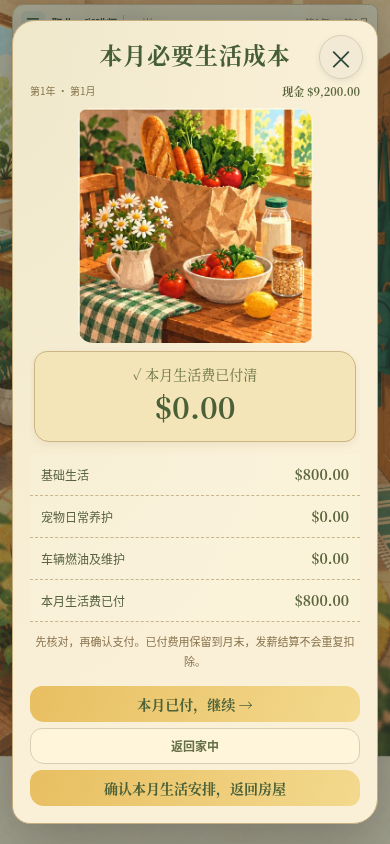
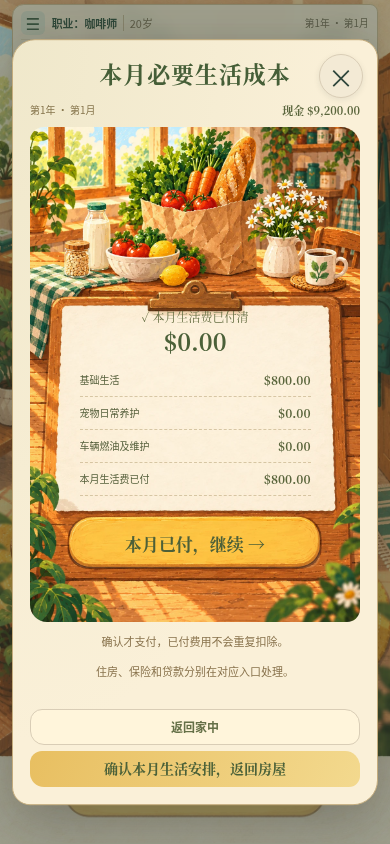
Embed the live living-expense payment button into illustrated bill

diff --git a/sw.js b/sw.js
@@ -1,5 +1,5 @@
-const CACHE='wealth-life-v28.3-household-paper1';
-const ASSETS=["./household-paper.js?v=28.3-household-paper1","./household-paper.css?v=28.3-household-paper1","./assets/career/household-scenes.webp","./social-records.js?v=28.3-social-per-person1","./social-time.js?v=28.3-social-price1","./social-pages-art.js?v=28.3-social-price1","./social-pages-art.css?v=28.3-social1","./assets/career/social-scenes.webp","./assets/career/life-funding.webp","./life-pages-art.js?v=28.3-life-pages1","./life-pages-art.css?v=28.3-life-pages1","./assets/career/life-activities.webp","./insurance-rules.js?v=28.3-insurance1","./insurance-hub.js?v=28.3-insurance1","./insurance-hub.css?v=28.3-insurance1","./life-hub-art.js?v=28.3-life-hub1","./life-hub-art.css?v=28.3-life-hub1","./assets/career/life-arrangements.webp","./recovery-activity-guards.js?v=28.3-recovery-guard1","./pet-social-contacts.js?v=28.3-pet-simple1","./assets/career/pet-gecko-cleaning.webp","./assets/career/pet-spider-cleaning.webp","./assets/career/pet-tortoise-cleaning.webp","./assets/career/pet-chameleon-cleaning.webp","./assets/career/pet-cat-professional.webp","./assets/career/pet-cat-cleaning-scenes.webp","./pet-art-map.js?v=28.3-pet-simple1","./pet-art-map.css?v=28.3-pet-map1","./pet-page-art.js?v=28.3-pet-map1","./assets/career/pet-policy.webp","./assets/career/pet-crocodile-cleaning.webp","./assets/career/pet-crocodile-adoption.webp","./assets/career/pet-cat-adoption.webp","./pet-funds-shortage.js?v=28.3-pet-funds1","./pet-funds-shortage.css?v=28.3-pet-funds1","./pet-adoption-success.js?v=28.3-pet-map1","./pet-adoption-success.css?v=28.3-pet-success1","./assets/career/pet-adoption-success.webp","./pet-owned-hub.js?v=28.3-pet-map1","./pet-owned-hub.css?v=28.3-pet-owned1","./assets/career/pet-owned-sheet.webp","./assets/career/pet-cleaning-scenes.webp","./pet-daily-care.js?v=28.3-pet-simple1","./pet-daily-care.css?v=28.3-pet-clean-art1","./pet-adoption-art.js?v=28.3-pet-map1","./pet-adoption-art.css?v=28.3-pet-form1","./assets/career/pet-corgi-adoption.webp","./pet-selection-art.js?v=28.3-pet-entry1","./pet-selection-art.css?v=28.3-pet-center1","./assets/career/pet-selection.webp","./pet-hub-art.js?v=28.3-pet-care-label1","./pet-hub-art.css?v=28.3-pet-hub1","./assets/career/pet-hub.webp","./assets/career/home-mobile.webp","./room-arrangements.js?v=28.3-pet-map1","./map-card-data.js?v=28.3-pet-social-limit1", "./map-card-rules.js?v=28.3-mapcards1", "./map-card-system.js?v=28.3-pet-simple1", "./map-card.css?v=28.3-mapcards1", "./assets/career/map-pet-unwell.webp", "./assets/career/map-pet-injury.webp", "./assets/career/map-pet-companion.webp", "./assets/career/map-pet-social.webp", "./assets/career/map-pet-mishap.webp", "./assets/career/map-investment-studio.webp", "./assets/career/map-investment-bun-shop.webp", "./assets/career/map-investment-laundry.webp"] .concat(["./cafe-rules.js?v=28.3-manager1","./cafe-system.js?v=28.3-manager1","./career-entry.js?v=28.3-mobile-room1","./career-entry.css?v=28.3-entry2","./assets/career/shift-promotion-pending.webp","./assets/career/shift-promotion-preview.webp","./assets/career/coffee-course.webp","./pet-adoption.js?v=28.3-pet-success1","./candidate-art.js?v=28.3-candidate1","./assets/career/barista-portrait.webp","./assets/career/pet-time-shortage.webp","./assets/career/pet-funds-shortage.webp","./assets/career/pet-crocodile-care.webp","./assets/career/bank-application.webp","./assets/career/bank-payment.webp","./housing-art.js?v=28.3-housing-check1","./assets/career/housing-select.webp","./assets/career/housing-reserve.webp","./assets/career/living-cost.webp","./return-art.js?v=28.3-return1","./assets/career/insurance.webp","./assets/career/return-energy.webp","./assets/career/return-stress.webp","./assets/career/payday.webp","./health-art.js?v=28.3-health1","./assets/career/rest-arrange.webp","./assets/career/rest-complete.webp","./assets/career/hospital-recovery.webp","./assets/career/month-recovery.webp","./education-art.js?v=28.3-education1","./assets/career/degrees.webp","./assets/career/associate-preview.webp","./learning-art.js?v=28.3-learning1","./assets/career/learning.webp","./assets/career/management-course.webp","./assets/career/service-course.webp","./hobby-art.js?v=28.3-room2","./assets/career/hobbies.webp","./home-scene.js?v=28.3-room-unified1","./home-scene.css?v=28.3-room-unified1","./assets/career/home.webp","./release-info.js?v=28.3-internal1","./financial-crisis.js?v=28.3-internal1","./four-state.js?v=28.3-internal1","./rest-state.js?v=28.3-rest-check1","./coffee-salary.js?v=28.3-internal1","./housing-lease.js?v=28.3-housing-check1","./pet-care.js?v=28.3-pet-map1","./necessary-bills.js?v=28.3-internal1","./recovery-ui.js?v=28.3-internal1","./medical-insurance.js?v=28.3-internal1","./recovery-rules.js?v=28.3-internal1","./time-ledger.js?v=28.3-internal1","./time-flow.js?v=28.3-home-end1","./assets/career/town.webp","./coffee-career.js?v=28.3-mapcards1", "./assets/career/barista-staff.webp", "./assets/career/barista-busy.webp", "./assets/career/barista-cut.webp", "./assets/career/barista-tip.webp", "./assets/career/barista-departure.webp", "./assets/career/shift-training.webp", "./assets/career/shift-schedule.webp", "./assets/career/shift-schedule-success.webp", "./assets/career/shift-schedule-failure.webp", "./assets/career/shift-complaint.webp", "./assets/career/shift-complaint-success.webp", "./assets/career/shift-complaint-failure.webp", "./assets/career/shift-acting.webp", "./assets/career/shift-acting-success.webp", "./assets/career/shift-acting-failure.webp", "./assets/career/shift-praise.webp", "./assets/career/intro.webp"] .concat(["./shift-lead.js?v=28.3-internal1","./shift-lead.css?v=28.3-internal1","./paper.css?v=28.3-internal1",'./coffee.js?v=28.3-internal1','./town.js?v=28.3-internal1','./','./index.html','./core.js','./flow.js?v=28.3-internal1','./journey.js?v=28.3-internal1','./batch.js?v=28.3-mapcards1','./revision.js?v=28.3-social-price1','./annual.js?v=28.3-internal1','./core.js?v=28.3-mapcards1','./presentation.js?v=28.3-candidate1','./presentation.css?v=28.3-internal1','./city.svg','./manifest.webmanifest','./icons/icon-192.png','./icons/icon-512.png']));
+const CACHE='wealth-life-v28.3-living-embedded1';
+const ASSETS=["./assets/career/living-bill-scene.webp","./household-paper.js?v=28.3-living-embedded1","./household-paper.css?v=28.3-living-embedded1","./assets/career/household-scenes.webp","./social-records.js?v=28.3-social-per-person1","./social-time.js?v=28.3-social-price1","./social-pages-art.js?v=28.3-social-price1","./social-pages-art.css?v=28.3-social1","./assets/career/social-scenes.webp","./assets/career/life-funding.webp","./life-pages-art.js?v=28.3-life-pages1","./life-pages-art.css?v=28.3-life-pages1","./assets/career/life-activities.webp","./insurance-rules.js?v=28.3-insurance1","./insurance-hub.js?v=28.3-insurance1","./insurance-hub.css?v=28.3-insurance1","./life-hub-art.js?v=28.3-life-hub1","./life-hub-art.css?v=28.3-life-hub1","./assets/career/life-arrangements.webp","./recovery-activity-guards.js?v=28.3-recovery-guard1","./pet-social-contacts.js?v=28.3-pet-simple1","./assets/career/pet-gecko-cleaning.webp","./assets/career/pet-spider-cleaning.webp","./assets/career/pet-tortoise-cleaning.webp","./assets/career/pet-chameleon-cleaning.webp","./assets/career/pet-cat-professional.webp","./assets/career/pet-cat-cleaning-scenes.webp","./pet-art-map.js?v=28.3-pet-simple1","./pet-art-map.css?v=28.3-pet-map1","./pet-page-art.js?v=28.3-pet-map1","./assets/career/pet-policy.webp","./assets/career/pet-crocodile-cleaning.webp","./assets/career/pet-crocodile-adoption.webp","./assets/career/pet-cat-adoption.webp","./pet-funds-shortage.js?v=28.3-pet-funds1","./pet-funds-shortage.css?v=28.3-pet-funds1","./pet-adoption-success.js?v=28.3-pet-map1","./pet-adoption-success.css?v=28.3-pet-success1","./assets/career/pet-adoption-success.webp","./pet-owned-hub.js?v=28.3-pet-map1","./pet-owned-hub.css?v=28.3-pet-owned1","./assets/career/pet-owned-sheet.webp","./assets/career/pet-cleaning-scenes.webp","./pet-daily-care.js?v=28.3-pet-simple1","./pet-daily-care.css?v=28.3-pet-clean-art1","./pet-adoption-art.js?v=28.3-pet-map1","./pet-adoption-art.css?v=28.3-pet-form1","./assets/career/pet-corgi-adoption.webp","./pet-selection-art.js?v=28.3-pet-entry1","./pet-selection-art.css?v=28.3-pet-center1","./assets/career/pet-selection.webp","./pet-hub-art.js?v=28.3-pet-care-label1","./pet-hub-art.css?v=28.3-pet-hub1","./assets/career/pet-hub.webp","./assets/career/home-mobile.webp","./room-arrangements.js?v=28.3-pet-map1","./map-card-data.js?v=28.3-pet-social-limit1", "./map-card-rules.js?v=28.3-mapcards1", "./map-card-system.js?v=28.3-pet-simple1", "./map-card.css?v=28.3-mapcards1", "./assets/career/map-pet-unwell.webp", "./assets/career/map-pet-injury.webp", "./assets/career/map-pet-companion.webp", "./assets/career/map-pet-social.webp", "./assets/career/map-pet-mishap.webp", "./assets/career/map-investment-studio.webp", "./assets/career/map-investment-bun-shop.webp", "./assets/career/map-investment-laundry.webp"] .concat(["./cafe-rules.js?v=28.3-manager1","./cafe-system.js?v=28.3-manager1","./career-entry.js?v=28.3-mobile-room1","./career-entry.css?v=28.3-entry2","./assets/career/shift-promotion-pending.webp","./assets/career/shift-promotion-preview.webp","./assets/career/coffee-course.webp","./pet-adoption.js?v=28.3-pet-success1","./candidate-art.js?v=28.3-candidate1","./assets/career/barista-portrait.webp","./assets/career/pet-time-shortage.webp","./assets/career/pet-funds-shortage.webp","./assets/career/pet-crocodile-care.webp","./assets/career/bank-application.webp","./assets/career/bank-payment.webp","./housing-art.js?v=28.3-housing-check1","./assets/career/housing-select.webp","./assets/career/housing-reserve.webp","./assets/career/living-cost.webp","./return-art.js?v=28.3-return1","./assets/career/insurance.webp","./assets/career/return-energy.webp","./assets/career/return-stress.webp","./assets/career/payday.webp","./health-art.js?v=28.3-health1","./assets/career/rest-arrange.webp","./assets/career/rest-complete.webp","./assets/career/hospital-recovery.webp","./assets/career/month-recovery.webp","./education-art.js?v=28.3-education1","./assets/career/degrees.webp","./assets/career/associate-preview.webp","./learning-art.js?v=28.3-learning1","./assets/career/learning.webp","./assets/career/management-course.webp","./assets/career/service-course.webp","./hobby-art.js?v=28.3-room2","./assets/career/hobbies.webp","./home-scene.js?v=28.3-room-unified1","./home-scene.css?v=28.3-room-unified1","./assets/career/home.webp","./release-info.js?v=28.3-internal1","./financial-crisis.js?v=28.3-internal1","./four-state.js?v=28.3-internal1","./rest-state.js?v=28.3-rest-check1","./coffee-salary.js?v=28.3-internal1","./housing-lease.js?v=28.3-housing-check1","./pet-care.js?v=28.3-pet-map1","./necessary-bills.js?v=28.3-internal1","./recovery-ui.js?v=28.3-internal1","./medical-insurance.js?v=28.3-internal1","./recovery-rules.js?v=28.3-internal1","./time-ledger.js?v=28.3-internal1","./time-flow.js?v=28.3-home-end1","./assets/career/town.webp","./coffee-career.js?v=28.3-mapcards1", "./assets/career/barista-staff.webp", "./assets/career/barista-busy.webp", "./assets/career/barista-cut.webp", "./assets/career/barista-tip.webp", "./assets/career/barista-departure.webp", "./assets/career/shift-training.webp", "./assets/career/shift-schedule.webp", "./assets/career/shift-schedule-success.webp", "./assets/career/shift-schedule-failure.webp", "./assets/career/shift-complaint.webp", "./assets/career/shift-complaint-success.webp", "./assets/career/shift-complaint-failure.webp", "./assets/career/shift-acting.webp", "./assets/career/shift-acting-success.webp", "./assets/career/shift-acting-failure.webp", "./assets/career/shift-praise.webp", "./assets/career/intro.webp"] .concat(["./shift-lead.js?v=28.3-internal1","./shift-lead.css?v=28.3-internal1","./paper.css?v=28.3-internal1",'./coffee.js?v=28.3-internal1','./town.js?v=28.3-internal1','./','./index.html','./core.js','./flow.js?v=28.3-internal1','./journey.js?v=28.3-internal1','./batch.js?v=28.3-mapcards1','./revision.js?v=28.3-social-price1','./annual.js?v=28.3-internal1','./core.js?v=28.3-mapcards1','./presentation.js?v=28.3-candidate1','./presentation.css?v=28.3-internal1','./city.svg','./manifest.webmanifest','./icons/icon-192.png','./icons/icon-512.png']));
 self.addEventListener('install',e=>{self.skipWaiting();e.waitUntil(caches.open(CACHE).then(c=>c.addAll(ASSETS)))});
 self.addEventListener('activate',e=>e.waitUntil(Promise.all([caches.keys().then(keys=>Promise.all(keys.filter(k=>k.startsWith('wealth-life-')&&k!==CACHE).map(k=>caches.delete(k)))),self.clients.claim()])));
 // Register the cache lifetime synchronously while the fetch event is active.

diff --git a/household-paper.js b/household-paper.js
@@ -45,9 +45,12 @@
   const result=livingBefore(...args);if($('eventTitle').textContent!=='本月必要生活成本')return result;
   const pay=$('eventData').querySelector('[data-v26="living"]'),fund=$('eventData').querySelector('[data-town="livingFund"]'),b=board('本月必要生活成本');if(!b)return result;
   const due=roundCash(Math.max(0,livingTotal()-(paymentReceipt().living||0)));
-  b.append(art(4));const amount=document.createElement('div');amount.className='household-total';const label=document.createElement('span'),value=document.createElement('strong');label.textContent=due?'本次尚需支付':'✓ 本月生活费已付清';value.textContent=priceText(due);amount.append(label,value);b.append(amount);
-  b.append(row('基础生活',priceText(livingBaseAmount(state))),row('宠物日常养护',priceText(petMonthly())),row('车辆燃油及维护',priceText(state.carRunningCost||0)),row('本月生活费已付',priceText(paymentReceipt().living||0)),note('先核对，再确认支付。已付费用保留到月末，发薪结算不会重复扣除。'),note('住房、保险和贷款分别在对应入口处理。'));
-  if(pay)$('actions').prepend(pay);if(fund)$('actions').insertBefore(fund,pay?.nextSibling||$('actions').firstChild);actions();return result;
+  $('eventTitle').closest('.event').classList.add('living-embedded');
+  const scene=document.createElement('figure');scene.className='living-painted-scene';const image=document.createElement('img');image.src='assets/career/living-bill-scene.webp';image.alt='阳光下的生活食材、手写账单纸和付款木牌';scene.append(image);
+  const ledger=document.createElement('div');ledger.className='living-painted-ledger';const amount=document.createElement('div');amount.className='household-total';const label=document.createElement('span'),value=document.createElement('strong');label.textContent=due?'本次尚需支付':'✓ 本月生活费已付清';value.textContent=priceText(due);amount.append(label,value);ledger.append(amount);
+  ledger.append(row('基础生活',priceText(livingBaseAmount(state))),row('宠物日常养护',priceText(petMonthly())),row('车辆燃油及维护',priceText(state.carRunningCost||0)),row('本月生活费已付',priceText(paymentReceipt().living||0)));scene.append(ledger);
+  if(pay){pay.classList.add('living-embedded-pay');scene.append(pay);}b.append(scene,note('确认才支付，已付费用不会重复扣除。'),note('住房、保险和贷款分别在对应入口处理。'));
+  if(fund)$('actions').prepend(fund);actions();return result;
  };
  function restBoard(title,done=false){
   const b=board(title);if(!b)return;const missing=done?[]:restMissing();
@@ -59,5 +62,5 @@
  function signed(n){return(n>0?'+':'')+n;}
  const restBefore=openExtraRest;openExtraRest=function(...args){const result=restBefore(...args);restBoard('额外休息4小时');return result;};
  const restConfirmBefore=confirmExtraRest;confirmExtraRest=function(...args){const result=restConfirmBefore(...args);if(result===true)restBoard('休息完成',true);return result;};
- const before=showEvent;showEvent=function(...args){document.querySelector('.household-painted')?.classList.remove('household-painted');return before(...args)};
+ const before=showEvent;showEvent=function(...args){document.querySelector('.household-painted')?.classList.remove('household-painted','living-embedded');return before(...args)};
 })();

diff --git a/household-paper.css b/household-paper.css
@@ -14,3 +14,15 @@
 .household-inline{display:block;margin:10px auto!important;min-height:38px!important;background:#f3e7c3!important;border:1px solid #c7b285;border-radius:12px 17px 11px 14px;color:#607046!important;font-family:'Songti SC',serif}
 .household-rest-scene{width:100%;max-width:230px;aspect-ratio:1;margin:0 auto 12px;background:url('assets/career/life-activities.webp') 50% 0/300% 300%;border-radius:13px 18px 12px 16px}
 @media(max-width:350px){.household-option>strong{font-size:14px}.household-option>b{font-size:12px}.household-option>small,.household-option>span{font-size:9px}.household-options{gap:9px 7px}}
+.living-painted-scene{position:relative;margin:0;border-radius:14px 19px 13px 17px;overflow:hidden;isolation:isolate}
+.living-painted-scene>img{display:block;width:100%;height:auto;aspect-ratio:2/3}
+.living-painted-ledger{position:absolute;left:15%;top:33%;width:70%;height:45%;display:flex;flex-direction:column;justify-content:center;color:#56603c}
+.living-painted-ledger .household-total{margin:0 0 6px;padding:0;background:transparent;border:0;box-shadow:none;border-radius:0}
+.living-painted-ledger .household-total span{font-size:12px}.living-painted-ledger .household-total strong{font-size:clamp(21px,6vw,29px);line-height:1.4}
+.living-painted-ledger .life-paper-row{padding:7px 0;gap:5px;font-size:10px;background:transparent;border-color:#b5a27588;flex-wrap:wrap}
+.living-painted-ledger .life-paper-row strong{font-size:12px;overflow-wrap:anywhere}
+#game .household-painted button.living-embedded-pay{position:absolute;left:12%;top:79.5%;width:76%;height:9.5%;min-height:40px!important;display:flex;align-items:center;justify-content:center;margin:0!important;padding:4px 8px!important;border:0!important;border-radius:13px 18px 12px 17px;background:transparent!important;box-shadow:none!important;color:#4d6038!important;font-family:'Songti SC','STSong',serif;font-size:17px;font-weight:700;white-space:normal;line-height:1.4;text-align:center;z-index:1}
+#game .household-painted button.living-embedded-pay:disabled{opacity:.45;cursor:not-allowed}
+#game .household-painted button.living-embedded-pay:focus-visible{outline:3px solid #506b40;outline-offset:-4px}
+#game .household-painted button.living-embedded-pay:not(:disabled):hover{background:#fff2c522!important}
+@media(max-width:350px){.living-painted-ledger .life-paper-row{padding:5px 0;font-size:9px}.living-painted-ledger .life-paper-row strong{font-size:10px}.living-painted-ledger .household-total span{font-size:10px}#game .household-painted button.living-embedded-pay{font-size:15px}}

diff --git a/index.html b/index.html
@@ -619,6 +619,6 @@ window.v245OpenHousing=()=>document.getElementById('housingBtn').click();
 <link rel="stylesheet" href="social-pages-art.css?v=28.3-social1">
 <script src="social-time.js?v=28.3-social-price1"></script>
 <script src="social-pages-art.js?v=28.3-social-price1"></script>
-<link rel="stylesheet" href="household-paper.css?v=28.3-household-paper1">
-<script src="household-paper.js?v=28.3-household-paper1"></script>
+<link rel="stylesheet" href="household-paper.css?v=28.3-living-embedded1">
+<script src="household-paper.js?v=28.3-living-embedded1"></script>
 </body></html>

diff --git a/qa/browser-household-paper.py b/qa/browser-household-paper.py
@@ -22,22 +22,26 @@ try:
   for key in ['family','shared','studio','rent1']:
    page.evaluate('openHousing()');before=snap();page.locator('#eventData [data-housing-preview][data-key="'+key+'"]').click();assert snap()==before;assert page.locator('.household-painted').count()==1
    if key=='shared':shot('housing-payment-painted');layout()
-  # The original button and delegate, now in the footer, remain the sole payment path.
+  # The original button and delegate are embedded into the scene and remain the sole payment path.
   reset();before=snap();page.get_by_role('button',name='基本生活费',exact=True).click();assert snap()==before
-  assert page.locator('#actions [data-v26="living"]').is_visible();shot('living-cost-painted');layout()
-  box=page.locator('#actions [data-v26="living"]').bounding_box();assert box['y']>=0 and box['y']+box['height']<=844
-  page.locator('#actions [data-v26="living"]').click();assert page.evaluate('state.cash')==9200;assert page.evaluate('paymentReceipt().living')==800
-  page.evaluate('openTownLiving()');assert '已付清' in page.locator('.household-total').inner_text();shot('living-paid-painted');before=snap();page.locator('#actions [data-v26="living"]').click();assert snap()==before
-  reset('state.cash=100');page.get_by_role('button',name='基本生活费',exact=True).click();assert page.locator('#actions [data-v26="living"]').is_disabled();assert page.locator('#actions [data-town="livingFund"]').is_visible();shot('living-insufficient-painted')
+  assert page.locator('.living-painted-scene [data-v26="living"]').is_visible();page.wait_for_function('document.querySelector(".living-painted-scene>img")?.naturalWidth>0');shot('living-cost-painted');layout()
+  box=page.locator('.living-painted-scene [data-v26="living"]').bounding_box();assert box['y']>=0 and box['y']+box['height']<=844
+  page.locator('.living-painted-scene [data-v26="living"]').click();assert page.evaluate('state.cash')==9200;assert page.evaluate('paymentReceipt().living')==800
+  page.evaluate('openTownLiving()');assert '已付清' in page.locator('.household-total').inner_text();shot('living-paid-painted');before=snap();page.locator('.living-painted-scene [data-v26="living"]').click();assert snap()==before
+  reset('state.cash=100');page.get_by_role('button',name='基本生活费',exact=True).click();assert page.locator('.living-painted-scene [data-v26="living"]').is_disabled();assert page.locator('#actions [data-town="livingFund"]').is_visible();shot('living-insufficient-painted')
+  # The embedded control remains a clickable real button as the whole illustration scales.
+  for w,h in [(320,568),(390,844),(1280,900)]:
+   page.set_viewport_size({'width':w,'height':h});reset();page.get_by_role('button',name='基本生活费',exact=True).click();pay=page.locator('.living-painted-scene button[data-v26="living"]');pay.scroll_into_view_if_needed();pay.click();assert page.evaluate('state.cash')==9200
+  page.set_viewport_size({'width':390,'height':844})
   # Rest uses the approved illustrated character and keeps its original action guard.
   reset();page.evaluate('roomOpenArrangement("rest")');assert page.locator('.household-rest-scene').count()==1;shot('rest-painted');layout();page.get_by_role('button',name='确认休息4h',exact=True).click();assert page.evaluate('currentCareerTime().restHours')==4;assert page.locator('.household-rest-scene').count()==1;shot('rest-result-painted')
   # Existing policies/pet pages keep their own styling when navigating away.
   reset();page.get_by_role('button',name='保险',exact=True).click();assert page.locator('.household-painted').count()==0
   reset('state.health=10');page.evaluate('openExtraRest()');assert page.locator('.household-painted').count()==0
   assert not errors,errors;ctx.close()
-  ctx=browser.new_context(viewport={'width':390,'height':844});page=ctx.new_page();page.goto(f'http://127.0.0.1:{s.server_port}',wait_until='networkidle');page.evaluate('navigator.serviceWorker.ready');page.reload(wait_until='networkidle');page.wait_for_function('navigator.serviceWorker.controller!==null');assert page.evaluate('caches.keys()')==['wealth-life-v28.3-household-paper1']
+  ctx=browser.new_context(viewport={'width':390,'height':844});page=ctx.new_page();page.goto(f'http://127.0.0.1:{s.server_port}',wait_until='networkidle');page.evaluate('navigator.serviceWorker.ready');page.reload(wait_until='networkidle');page.wait_for_function('navigator.serviceWorker.controller!==null');assert page.evaluate('caches.keys()')==['wealth-life-v28.3-living-embedded1']
   ctx.set_offline(True);page.reload(wait_until='networkidle');page.get_by_role('button',name='查看职业预览',exact=True).click();page.get_by_role('button',name='选择这个人生',exact=True).click();page.evaluate('roomOpenArrangement("life");openHousing()');assert page.locator('.household-option').count()==4
   assert page.evaluate('new Promise((resolve,reject)=>{const i=new Image;i.onload=()=>resolve(i.naturalWidth);i.onerror=reject;i.src="assets/career/household-scenes.webp"})')==1536
-  page.evaluate('openTownLiving()');page.locator('#actions [data-v26="living"]').click();assert page.evaluate('state.cash')==9200
-  ctx.close();browser.close();result={'passed':True,'checks':['four housing scenes and original preview buttons, browsing no mutation','payment/reservation scene styling; 320/390/desktop centered no overflow','original living button moved to visible footer, actual800 payment, paid reopen no duplicate','insufficient cash keeps disabled pay and original funding route','approved rest scene, original4h transaction and result','insurance and critical recovery screens not restyled by household module','real SW offline atlas and living payment'],'pageErrors':errors,'limits':['isolated Chromium, not real phone','housing/rest original branch regressions run separately']};Path('qa/browser-evidence/household-paper.json').write_text(json.dumps(result,ensure_ascii=False,indent=2)+'\n');print(json.dumps(result,ensure_ascii=False,indent=2))
+  page.evaluate('openTownLiving()');page.locator('.living-painted-scene [data-v26="living"]').click();assert page.evaluate('state.cash')==9200
+  ctx.close();browser.close();result={'passed':True,'checks':['four housing scenes and original preview buttons, browsing no mutation','payment/reservation scene styling; 320/390/desktop centered no overflow','original living button embedded in illustration, actual800 payment, paid reopen no duplicate, scaled320/390/desktop button clicks','insufficient cash keeps disabled pay and original funding route','approved rest scene, original4h transaction and result','insurance and critical recovery screens not restyled by household module','real SW offline atlas and living payment'],'pageErrors':errors,'limits':['isolated Chromium, not real phone','housing/rest original branch regressions run separately']};Path('qa/browser-evidence/household-paper.json').write_text(json.dumps(result,ensure_ascii=False,indent=2)+'\n');print(json.dumps(result,ensure_ascii=False,indent=2))
 finally:s.shutdown();s.server_close()

diff --git a/qa/browser-rest-flow.py b/qa/browser-rest-flow.py
@@ -45,7 +45,7 @@ try:
   reset();page.get_by_role('button',name='确认本月休息安排，返回房屋',exact=True).click();assert page.evaluate('roomChecks().rest.confirmed') is True;assert page.evaluate('state.extraRest.entries.length')==0;assert page.evaluate('state.cash')==10000
   reset();confirm();page.evaluate('state.month+=1;roomOpenArrangement("rest")');assert page.evaluate('state.extraRest.entries.length')==0 and page.evaluate('currentCareerTime().restHours')==0
   assert not errors,errors;context.close()
-  context=browser.new_context();page=context.new_page();page.goto(f'http://127.0.0.1:{server.server_port}',wait_until='networkidle');page.evaluate('navigator.serviceWorker.ready');page.reload(wait_until='networkidle');page.wait_for_function('navigator.serviceWorker.controller!==null');assert page.evaluate('caches.keys()')==['wealth-life-v28.3-household-paper1']
+  context=browser.new_context();page=context.new_page();page.goto(f'http://127.0.0.1:{server.server_port}',wait_until='networkidle');page.evaluate('navigator.serviceWorker.ready');page.reload(wait_until='networkidle');page.wait_for_function('navigator.serviceWorker.controller!==null');assert page.evaluate('caches.keys()')==['wealth-life-v28.3-living-embedded1']
   context.set_offline(True);page.reload(wait_until='networkidle');page.get_by_role('button',name='查看职业预览',exact=True).click();page.get_by_role('button',name='选择这个人生',exact=True).click();page.evaluate('roomOpenArrangement("rest")');confirm();assert page.evaluate('state.extraRest.entries.length')==1
   context.close();browser.close();result={'passed':True,'checks':['preview/back no effects; explicit acknowledgement without resting','4h free payment and actual capped energy/stress/health effects','repeat rest, duplicate callback, reload and next month','insufficient/exact time, resource changes after preview','actual pet professional-cleaning time reservation','stale save/month/detached confirmations blocked','low health and recovery route to treatment','320/390/desktop centered no overflow','real service worker offline rest confirmation'],'pageErrors':errors,'limits':['isolated Chromium, not real phone','not full multi-year randomized gameplay']};Path('qa/browser-evidence/rest-flow.json').write_text(json.dumps(result,ensure_ascii=False,indent=2)+'\n');print(json.dumps(result,ensure_ascii=False,indent=2))
 finally:server.shutdown();server.server_close()

diff --git a/progress/living-embedded-2026-10-26.md b/progress/living-embedded-2026-10-26.md
@@ -1,0 +1,13 @@
+# 生活费按钮嵌入插画（2026-10-26）
+
+用户看过手绘生活费卡后要求“把按钮嵌入插画里面”，认为更好看。本轮仅改生活费构图，不改变其他卡片或付款规则。
+
+新增assets/career/living-bill-scene.webp（1024×1536，完整2:3）：原暖色绘本风的食材、夹板账单纸和黄色付款木牌组成同一场景。图像工具明确传入原房屋和已确认家居六场景作为风格参考，纸张和木牌保持无文字/数字，原PNG保留 /workspace/generated_images/exec-657ad293-f04d-4e67-bfcd-e3f9fb26070e.png。
+
+household-paper.js/css把实时待付金额与基础生活/宠物养护/车辆维护/本月已付四行账单放进画中的纸张位置；原data-v26=living的真实button节点从footer移到画内黄色木牌区域。按整幅画等比缩放，按钮仍是可聚焦/可点击/可禁用的原控件，保留原事件委托、支付金额、已付防重和资金不足条件。原筹款、返回家中及明确确认本月安排仍保留在画外底部。没有用图片文字充当按钮，没有写死800或任何余额，也不增加自动付款。
+
+[未付实页](evidence/living-cost-painted-2026-10-26.png)、[已付实页](evidence/living-paid-painted-2026-10-26.png)、[现金不足](evidence/living-insufficient-painted-2026-10-26.png)。此前分离插画/金额框/底部付款版本保留在progress/evidence/living-before-embedded/，旧图集和候选不改。
+
+44个Node测试通过。qa/browser-household-paper.py通过：浏览无扣款；真实按钮在插画中且390px可见；实际付款800后余额9200、重开已付不重扣；现金100时禁用支付、保留筹款入口；320/390/桌面三种宽高实际点击嵌入按钮均成功，矮屏必要时滚动；住房/休息/保险切换不串样式；真实SW断网加载图并付款。证据qa/browser-evidence/household-paper.json，无页面异常。隔离Chromium，非真机。
+
+生产图76、PR新增58、新接入40，候选459条保留，缓存wealth-life-v28.3-living-embedded1，HTML/SW精确查询版本和新图预缓存一致。旧存档、费用、押金、时间、月限不改。本地保存，未上传/合并/部署；新构图待用户视觉核对。

diff --git a/CODEX_HANDOFF.md b/CODEX_HANDOFF.md
@@ -1,5 +1,7 @@
 # 财富人生 Wealth Life — Codex 接手说明
 
+最新生活费嵌画（2026-10-26）：用户要求按钮嵌入插画。已把生活费待付/明细放进画中的账单纸，原真实支付按钮嵌在黄色木牌，动态金额/禁用/事件委托及防重不变。返回、筹款和本月确认仍在底部。见 [嵌画检查点](progress/living-embedded-2026-10-26.md)。旧构图截图保留。76图、缓存 `wealth-life-v28.3-living-embedded1`，44个Node及浏览器含320/390/桌面实际按钮点击、800付款/不重扣/离线通过，非真机；待视觉核对，本地未上传。
+
 最新卡片统一（2026-10-26）：用户要求卡片符合手绘游戏风。已把当前住房四选项/付款/预约/交接、基本生活费、休息及结果统一暖色绘本纸卡，先读 [卡片统一检查点](progress/household-paper-2026-10-26.md)。新增六场景图集，休息复用已确认圆脸沙发图；原按钮/委托/付款/押金/时间/防重与旧存档保留。生活费确认支付移到可见固定footer。旧图及旧截图保留。75图、缓存 `wealth-life-v28.3-household-paper1`；44个Node和household/housing/rest三个真实浏览器检查含离线通过，非真机。新页面待视觉核对，本地未上传。
 
 最新住房核对（2026-10-26）：用户询问确认扣款，已说明首次确认即付当月租金+新押金（家人无押金），次月手动确认租金非自动代扣，生活费保险独立。首次/次月/换房预约取消与净额交接/防重/不足款已过真实浏览器检查；复现修复旧付款确认跨存档问题，交接预览同步补身份/月份/在屏和报价防护。见 [住房检查点](progress/housing-flow-2026-10-26.md)。44个Node通过，非真机，缓存 `wealth-life-v28.3-housing-check1`，本地未上传。用户随后转看“生活→基本生活费”。

diff --git a/NEXT_SESSION.md b/NEXT_SESSION.md
@@ -1,5 +1,7 @@
 # 新会话接手
 
+最新生活费嵌画（2026-10-26）：用户要求按钮嵌入插画。已把生活费待付/明细放进画中的账单纸，原真实支付按钮嵌在黄色木牌，动态金额/禁用/事件委托及防重不变。返回、筹款和本月确认仍在底部。见 [嵌画检查点](progress/living-embedded-2026-10-26.md)。旧构图截图保留。76图、缓存 `wealth-life-v28.3-living-embedded1`，44个Node及浏览器含320/390/桌面实际按钮点击、800付款/不重扣/离线通过，非真机；待视觉核对，本地未上传。
+
 最新卡片统一（2026-10-26）：用户要求卡片符合手绘游戏风。已把当前住房四选项/付款/预约/交接、基本生活费、休息及结果统一暖色绘本纸卡，先读 [卡片统一检查点](progress/household-paper-2026-10-26.md)。新增六场景图集，休息复用已确认圆脸沙发图；原按钮/委托/付款/押金/时间/防重与旧存档保留。生活费确认支付移到可见固定footer。旧图及旧截图保留。75图、缓存 `wealth-life-v28.3-household-paper1`；44个Node和household/housing/rest三个真实浏览器检查含离线通过，非真机。新页面待视觉核对，本地未上传。
 
 最新住房核对（2026-10-26）：用户询问确认扣款，已说明首次确认即付当月租金+新押金（家人无押金），次月手动确认租金非自动代扣，生活费保险独立。首次/次月/换房预约取消与净额交接/防重/不足款已过真实浏览器检查；复现修复旧付款确认跨存档问题，交接预览同步补身份/月份/在屏和报价防护。见 [住房检查点](progress/housing-flow-2026-10-26.md)。44个Node通过，非真机，缓存 `wealth-life-v28.3-housing-check1`，本地未上传。用户随后转看“生活→基本生活费”。

diff --git a/progress/household-paper-2026-10-26.md b/progress/household-paper-2026-10-26.md
@@ -1,5 +1,7 @@
 # 住房、生活费及休息卡片手绘统一（2026-10-26）
 
+后续覆盖：生活费按钮已按用户要求嵌入画中账单/木牌，见 [新构图](living-embedded-2026-10-26.md)；下方“生活费支付在footer”为此前版本。
+
 用户要求“把卡片都改成手绘风格，符合游戏风格”。本轮承接正在核对的住房、生活费和刚完成休息页面，统一这些尚未匹配的卡片及住房付款/预约/交接。既有生活入口、保险、必要安排、可选活动、宠物和关系的已确认绘本页面保留；没有重建游戏。新结果待用户视觉核对，不把风格沿用当作用户已经验收所有新页面。
 
 ## 实际页面
